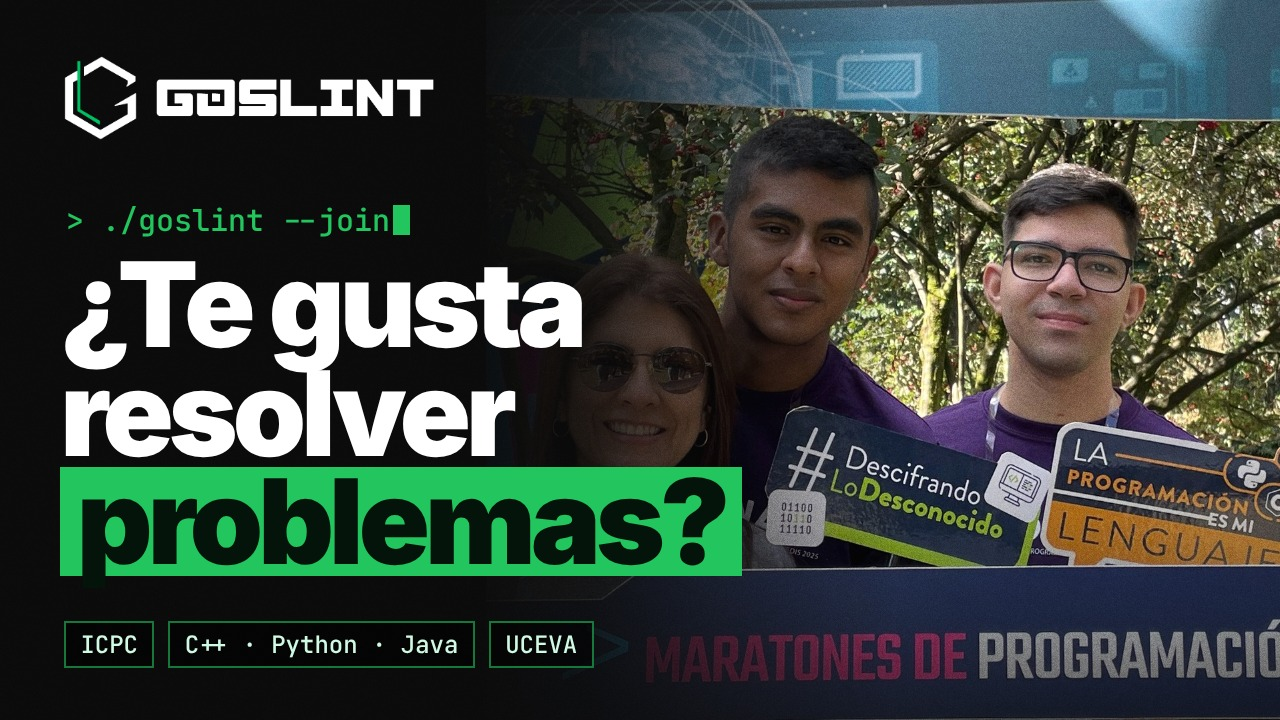
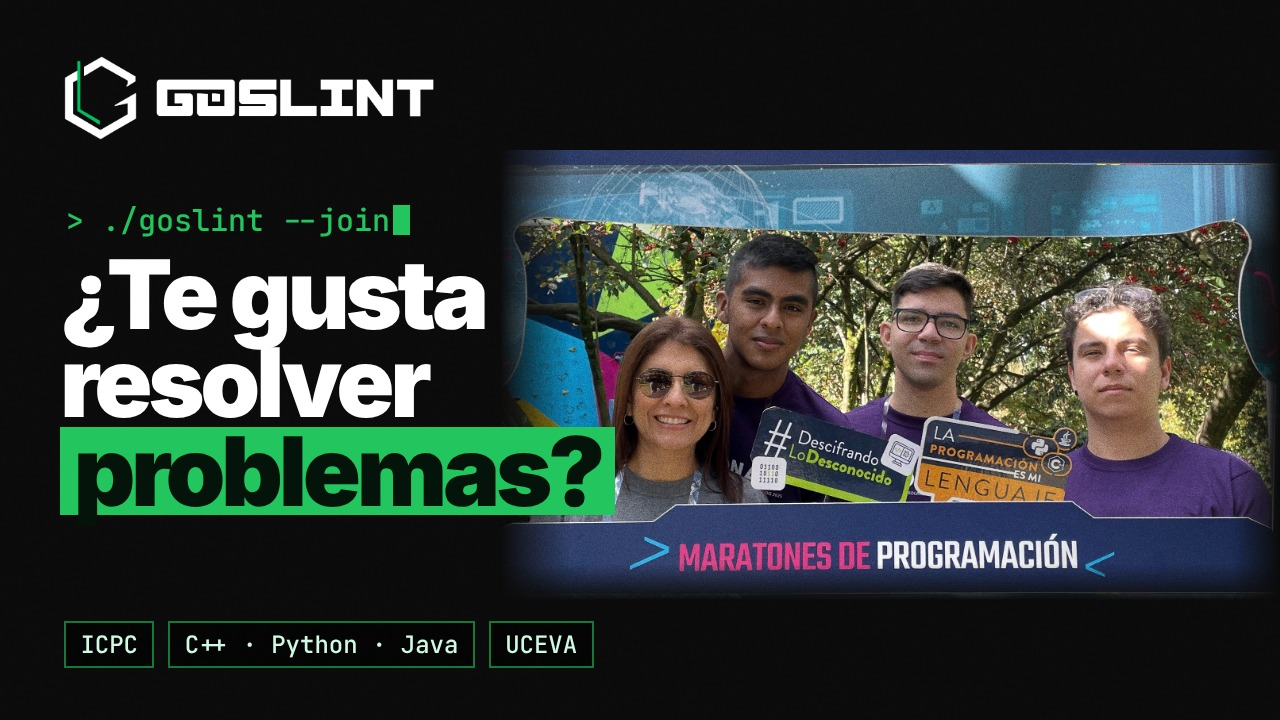
Miniatura YouTube: foto completa sin tapar a ningún integrante
Claude-Session: https://claude.ai/code/session_018snP9LkuDT72YsRYTJhWZm

diff --git a/promo/miniaturas/src/thumb.html b/promo/miniaturas/src/thumb.html
@@ -16,14 +16,13 @@ h1{font-weight:900;letter-spacing:-.045em;line-height:.92}
 </style></head><body>
 <!-- YT -->
 <div id="yt" style="display:none">
- <div class="photo" style="inset:0 0 0 38%;background-image:url(../../public/photos/regional-2025-equipo.jpg);background-position:35% 35%"></div>
- <div class="shade" style="background:linear-gradient(90deg,#0b0b0b 36%,rgba(11,11,11,.85) 46%,rgba(11,11,11,0) 70%),linear-gradient(0deg,rgba(11,11,11,.7),transparent 35%)"></div>
+ <div class="photo" style="left:500px;right:0;top:150px;height:450px;background-image:url(../../public/photos/regional-2025-equipo.jpg);background-size:112% auto;background-position:60% 70%;-webkit-mask-image:linear-gradient(90deg,transparent,#000 9%,#000 94%,transparent),linear-gradient(0deg,transparent,#000 8%);-webkit-mask-composite:source-in"></div>
  <div class="grain"></div>
  <div style="position:absolute;left:64px;top:56px;display:flex;align-items:center;gap:18px">
   <img src="../../public/brand/mark_full.png" style="height:84px"><img src="../../public/brand/word_white.png" style="height:40px">
  </div>
  <div class="term" style="position:absolute;left:66px;top:200px;font-size:30px">&gt; ./goslint --join<span class="cursor"></span></div>
- <h1 style="position:absolute;left:60px;top:250px;font-size:118px">¿Te gusta<br>resolver<br><span class="hl">problemas?</span></h1>
+ <h1 style="position:absolute;left:60px;top:250px;font-size:96px">¿Te gusta<br>resolver<br><span class="hl">problemas?</span></h1>
  <div style="position:absolute;left:64px;bottom:52px;display:flex;gap:14px;font-size:24px"><span class="tag">ICPC</span><span class="tag">C++ · Python · Java</span><span class="tag">UCEVA</span></div>
 </div>
 <!-- REEL -->
